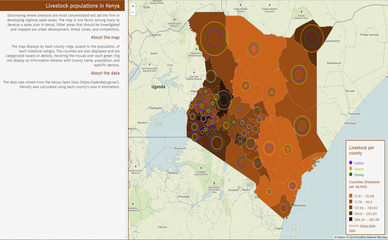
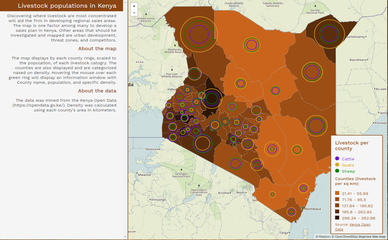
update

diff --git a/index.html b/index.html
@@ -8,58 +8,57 @@
     <meta name=‘viewport’ content=‘initial-scale=1,maximum-scale=1,user-scalable=no’ />
 
     <link rel="stylesheet" href="https://cdnjs.cloudflare.com/ajax/libs/normalize/3.0.3/normalize.min.css" />
-    <link href='http://fonts.googleapis.com/css?family=Ropa+Sans' rel='stylesheet' type='text/css'>
-    <link href='http://fonts.googleapis.com/css?family=Impira' rel='stylesheet' type='text/css'>
+    <link href='https://fonts.googleapis.com/css?family=Unica+One' rel='stylesheet' type='text/css'>
+    <link href='https://fonts.googleapis.com/css?family=Open+Sans+Condensed:700' rel='stylesheet' type='text/css'>
+    <link href='https://fonts.googleapis.com/css?family=Vollkorn' rel='stylesheet' type='text/css'>
     <style>
         header {
             width: 100%;
             min-width: 800px;
             margin: 0 auto;
-            background: steelblue;
+            background: black;
             padding: 15px 0 20px;
         }
         
         h1 {
-            font-family: 'Ropa Sans', sans-serif;
-            color: #375671;
+            font-family: 'Unica One', cursive;
+            color: whitesmoke;
             width: 80%;
             margin: 0 auto;
             color: whitesmoke;
         }
         
         h2 {
-            font-family: 'Ropa Sans', sans-serif;
-            color: #375671;
+            font-family: 'Unica One', cursive;
+            color: whitesmoke;
             width: 80%;
             margin: 0 auto;
-            color: whitesmoke;
         }
         
         body {
-            background: #FFEBCD;
-            font-family: 'Imprima', sans-serif;
+            background: #999999;
+            font-family: 'Vollkorn', serif;
+            color: black;
         }
         
         h3 {
-            font-family: Dosis, sans-serif;
-            color: #003d71
+            font-family: 'Open Sans Condensed', sans-serif;
+            color: black;
         }
         
         p {
-            font-size: .9em;
-            color: #375671;
+            color: black;
         }
         
         ul {
             list-style-type: none;
-            font-size: .9em;
-            color: #375671;
+            color: black;
             line-height: 1.6em;
         }
         
         a,
         a:visited {
-            color: #003d71;
+            color: black;
         }
         
         .project {
@@ -67,6 +66,7 @@
             min-width: 800px;
             height: 100%;
             margin: 35px auto;
+            background: #bfbfbf;
         }
         
         .project:after {
@@ -90,9 +90,42 @@
 <body>
 
     <header>
-        <h1>Digital Mapping Portfolio</h1>
-        <h2>Ray Hasenyager</h2>
+        <h1>DIGITAL MAPPING PORTFOLIO</h1>
+        <h2>RAY HASENYAGER</h2>
     </header>
+    
+    <section class="project">
+        <a target='_blank' href="http://rayhasenyager.github.io/us-fossil-fuel-plants/"><img src="https://github.com/rayhasenyager/rayhasenyager.github.io/blob/master/images/pwrplant.png?raw=true" alt="US Fossil Fuel Power Plants" class="project-image" /></a>
+        <h3><a target = '_blank' href="http://rayhasenyager.github.io/us-fossil-fuel-plants/">US Fossil Fuel Power Plants</a></h3>
+        <p>This map was built using HTML, CSS, JavaScript, and Leaflet on an OpenStreetMap base map through CartoDB.</p>
+        <p>It shows fossil fuel plants across the United States. By clicking on the map the user will see all indicated plants within a 500 km radius to the click point and the plant pop ups will be dsplayed when a user clicks on the plant circle. Circles indicate kilowatt output by the circle's size. Users may turn on/off the layers as indicated.</p>
+        <ul>
+            <li>See the map: <a target='_blank' href="http://rayhasenyager.github.io/us-fossil-fuel-plants/">US Fossil Fuel Power Plants</a></li>
+            <li>Data Source: <a href="http://www.eia.gov/electricity/data/eia923/">US Energy Information Administration</a></li>
+        </ul>
+    </section>
+    
+    <section class="project">
+        <a target='_blank' href="http://rayhasenyager.github.io/us-fossil-fuel-plants/"><img src="https://github.com/rayhasenyager/rayhasenyager.github.io/blob/master/images/pwrplant.png?raw=true" alt="US Fossil Fuel Power Plants" class="project-image" /></a>
+        <h3><a target = '_blank' href="http://rayhasenyager.github.io/us-fossil-fuel-plants/">US Fossil Fuel Power Plants</a></h3>
+        <p>This map was built using HTML, CSS, JavaScript, and Leaflet on an OpenStreetMap base map through CartoDB.</p>
+        <p>It shows fossil fuel plants across the United States. By clicking on the map the user will see all indicated plants within a 500 km radius to the click point and the plant pop ups will be dsplayed when a user clicks on the plant circle. Circles indicate kilowatt output by the circle's size. Users may turn on/off the layers as indicated.</p>
+        <ul>
+            <li>See the map: <a target='_blank' href="http://rayhasenyager.github.io/us-fossil-fuel-plants/">US Fossil Fuel Power Plants</a></li>
+            <li>Data Source: <a href="http://www.eia.gov/electricity/data/eia923/">US Energy Information Administration</a></li>
+        </ul>
+    </section>
+    
+    <section class="project">
+        <a target='_blank' href="http://rayhasenyager.github.io/kenya/"><img src="https://github.com/rayhasenyager/rayhasenyager.github.io/blob/master/images/kenya.png?raw=true" alt="Kenya Livestock Populations" class="project-image" /></a>
+        <h3><a target = '_blank' href="http://rayhasenyager.github.io/kenya/">Kenya Livestock Populations</a></h3>
+        <p>This map was built using HTML, CSS, and Mabbox.js on a Mapbox base map.</p>
+        <p>It shows livestock populations in Kenya. By hovering over the rings the user is provided the density of livestock per county and population information on cattle, sheep, and goats.</p>
+        <ul>
+            <li>See the map: <a target='_blank' href="http://rayhasenyager.github.io/kenya/">Kenya Livestock Populations</a></li>
+            <li>Data Source: <a href="https://opendata.go.ke/">Kenya Open Data</a></li>
+        </ul>
+    </section>
 
     <section class="project">
         <a target='_blank' href="rayhasenyager.github.io/maps/ALCraftBrew.pdf"><img src="https://github.com/rayhasenyager/rayhasenyager.github.io/blob/master/images/craft.png?raw=true" alt="Public Policy and Craft Brewing in Alabama" class="project-image" /></a>
@@ -118,28 +151,6 @@
     </section>
 
     <section class="project">
-        <a target='_blank' href="http://rayhasenyager.github.io/us-fossil-fuel-plants/"><img src="https://github.com/rayhasenyager/rayhasenyager.github.io/blob/master/images/pwrplant.png?raw=true" alt="US Fossil Fuel Power Plants" class="project-image" /></a>
-        <h3><a target = '_blank' href="http://rayhasenyager.github.io/us-fossil-fuel-plants/">US Fossil Fuel Power Plants</a></h3>
-        <p>This map was built using HTML, CSS, JavaScript, and Leaflet on an OpenStreetMap base map through CartoDB.</p>
-        <p>It shows fossil fuel plants across the United States. By clicking on the map the user will see all indicated plants within a 500 km radius to the click point and the plant pop ups will be dsplayed when a user clicks on the plant circle. Circles indicate kilowatt output by the circle's size. Users may turn on/off the layers as indicated.</p>
-        <ul>
-            <li>See the map: <a target='_blank' href="http://rayhasenyager.github.io/us-fossil-fuel-plants/">US Fossil Fuel Power Plants</a></li>
-            <li>Data Source: <a href="http://www.eia.gov/electricity/data/eia923/">US Energy Information Administration</a></li>
-        </ul>
-    </section>
-    
-    <section class="project">
-        <a target='_blank' href="http://rayhasenyager.github.io/kenya/"><img src="https://github.com/rayhasenyager/rayhasenyager.github.io/blob/master/images/kenya.png?raw=true" alt="Kenya Livestock Populations" class="project-image" /></a>
-        <h3><a target = '_blank' href="http://rayhasenyager.github.io/kenya/">Kenya Livestock Populations</a></h3>
-        <p>This map was built using HTML, CSS, and Mabbox.js on a Mapbox base map.</p>
-        <p>It shows livestock populations in Kenya. By hovering over the rings the user is provided the density of livestock per county and population information on cattle, sheep, and goats.</p>
-        <ul>
-            <li>See the map: <a target='_blank' href="http://rayhasenyager.github.io/kenya/">Kenya Livestock Populations</a></li>
-            <li>Data Source: <a href="https://opendata.go.ke/">Kenya Open Data</a></li>
-        </ul>
-    </section>
-
-    <section class="project">
         <a target='_blank' href="https://github.com/rayhasenyager/codebase"><img src="https://github.com/rayhasenyager/rayhasenyager.github.io/blob/master/images/codebase.png?raw=true" alt="GitHub Codebase" class="project-image" /></a>
         <h3><a target = '_blank' href="https://github.com/rayhasenyager/codebase">GitHub Codebase</a></h3>
         <p>View Ray's <a target='_blank' href="https://github.com/rayhasenyager/codebase">GitHub Codebase</a>. Which includes various web map coding projects.</p>
@@ -147,7 +158,7 @@
 
     <section class="project">
         <h3>About Ray:</h3>
-        <p>Now living in Madison, Alabama, Ray has experience supporting digital mapping projects for the Department of Defense to include the 2014 West Africa Ebola Outbreak, kinetic and relief operations in Libya, and creating a Logistics Common Operating Picture (LOGCOP) of logistics capabilites across the European and African continents. He is currently enrolled in the New Maps Plus graduate certificate program at the University of Kentucky. Ray currently provides support to Moxee Graphic Design Company.</p>
+        <p>Ray lives near Huntsville, Alabama and has experience supporting digital mapping projects for the Department of Defense to include the 2014 West Africa Ebola Outbreak, kinetic and relief operations in Libya, and creating a Logistics Common Operating Picture (LOGCOP) of logistics capabilites across the European and African continents for the US Africa Command. He is currently enrolled in the New Maps Plus graduate certificate program at the University of Kentucky.</p>
     </section>
 
 </body>
